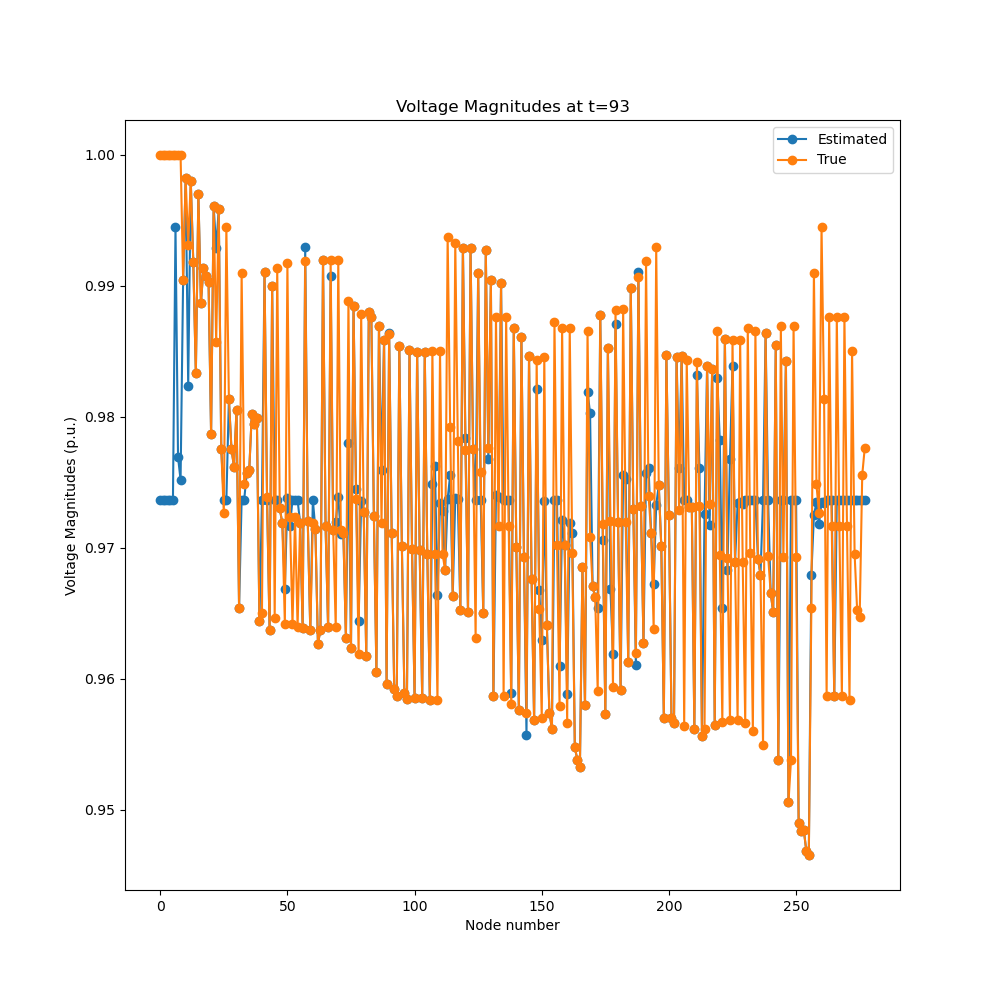
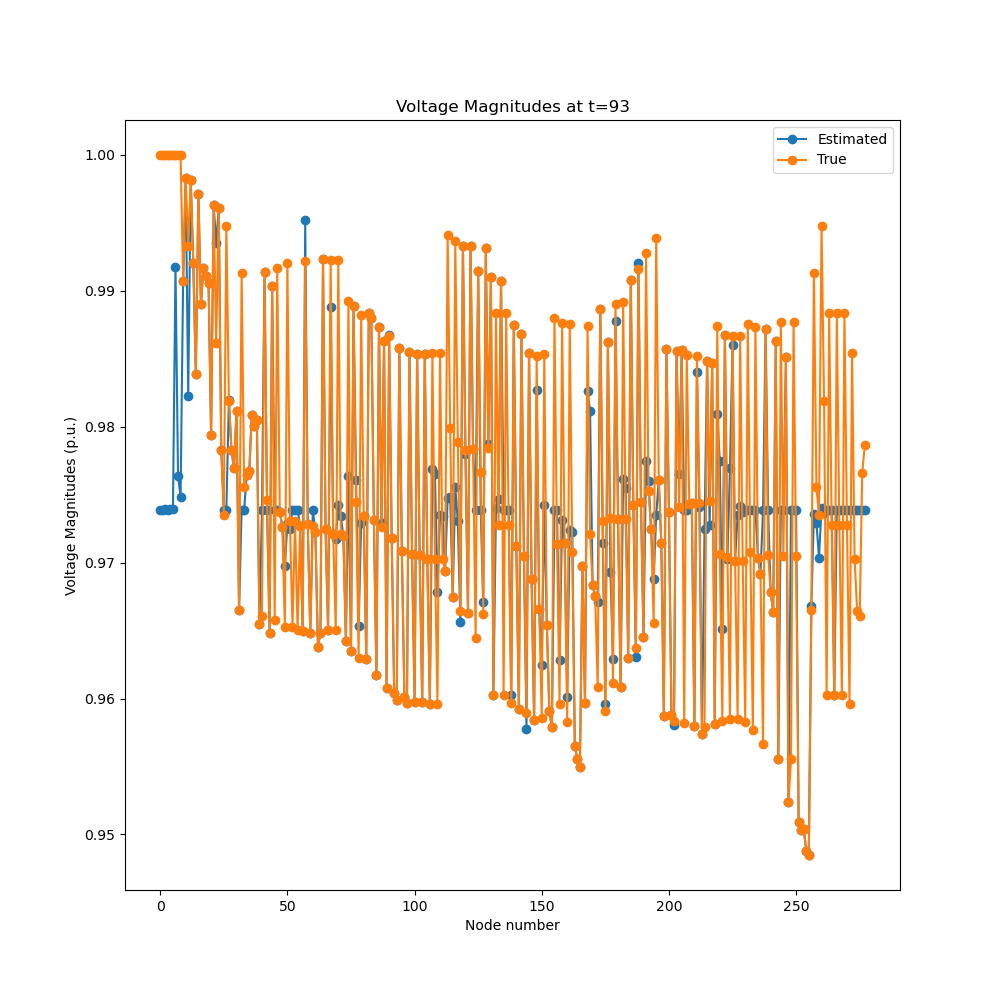
Use snapshot run

diff --git a/LocalFeeder/sender_cosim.py b/LocalFeeder/sender_cosim.py
@@ -152,7 +152,7 @@ def get_initial_data(sim, config):
         values=list(np.abs(base_voltages).data), ids=list(base_voltages.bus.data)
     )
 
-    # sim.snapshot_run()
+    sim.snapshot_run()
     PQ_load = sim.get_PQs_load(static=True)
     PQ_PV = sim.get_PQs_pv(static=True)
     PQ_gen = sim.get_PQs_gen(static=True)
@@ -161,8 +161,7 @@ def get_initial_data(sim, config):
     power_real, power_imaginary = get_powers(-PQ_load, -PQ_PV, -PQ_gen, -PQ_cap)
     injections = Injection(power_real=power_real, power_imaginary=power_imaginary)
 
-    sim.initial_disabled_solve()
-    feeder_voltages = sim.get_disabled_solve_voltages()
+    feeder_voltages = sim.get_voltages_snapshot()
     phases = list(map(get_true_phases, np.angle(feeder_voltages.data)))
     base_voltageangle = VoltagesAngle(values=phases, ids=list(feeder_voltages.bus.data))
 
